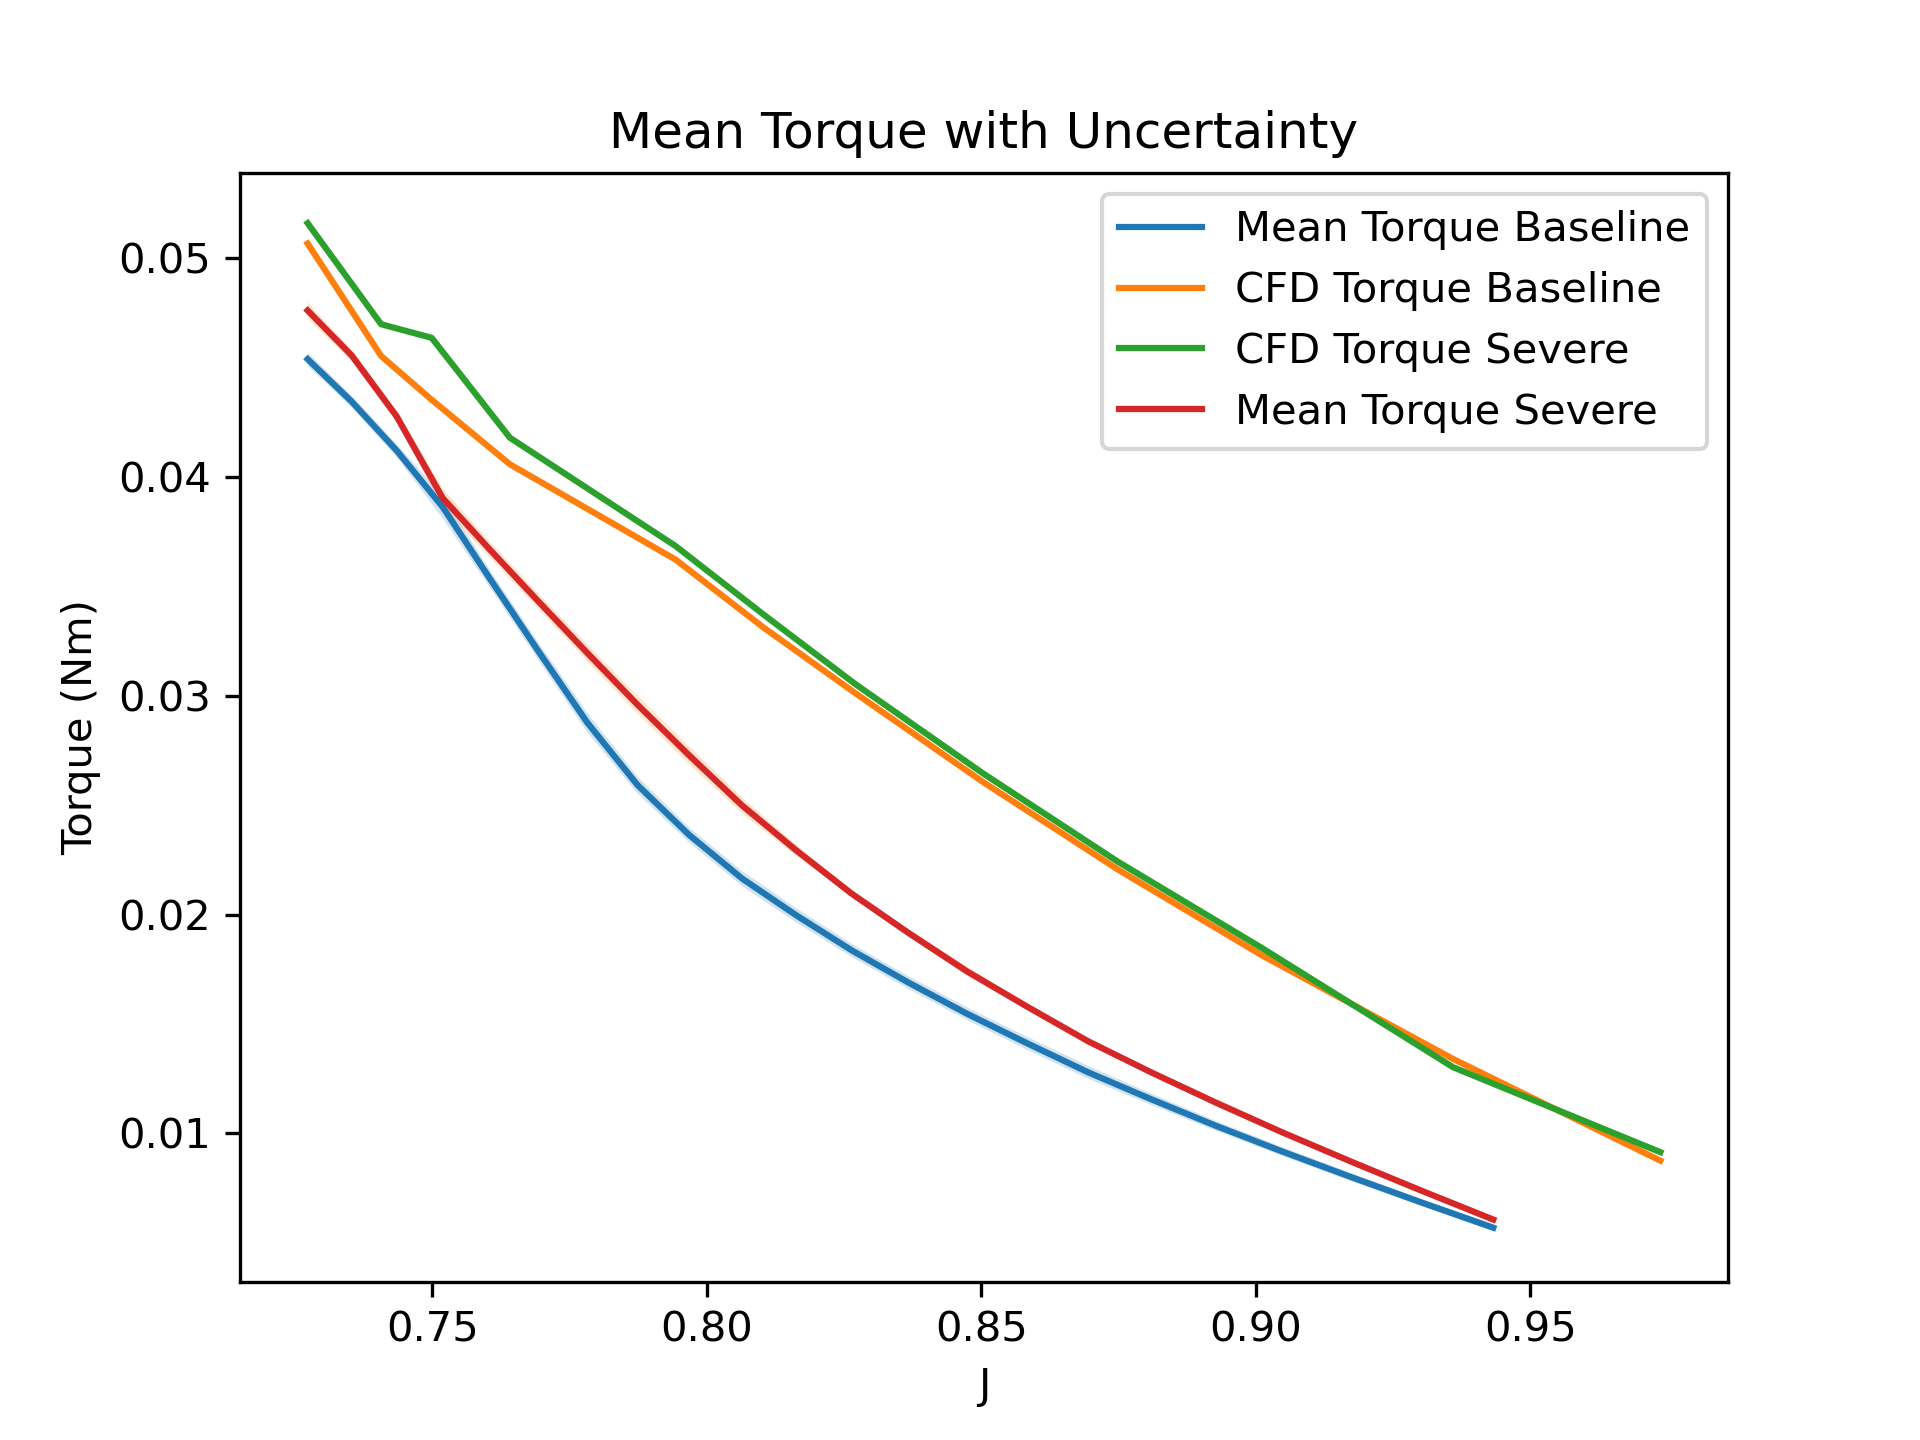
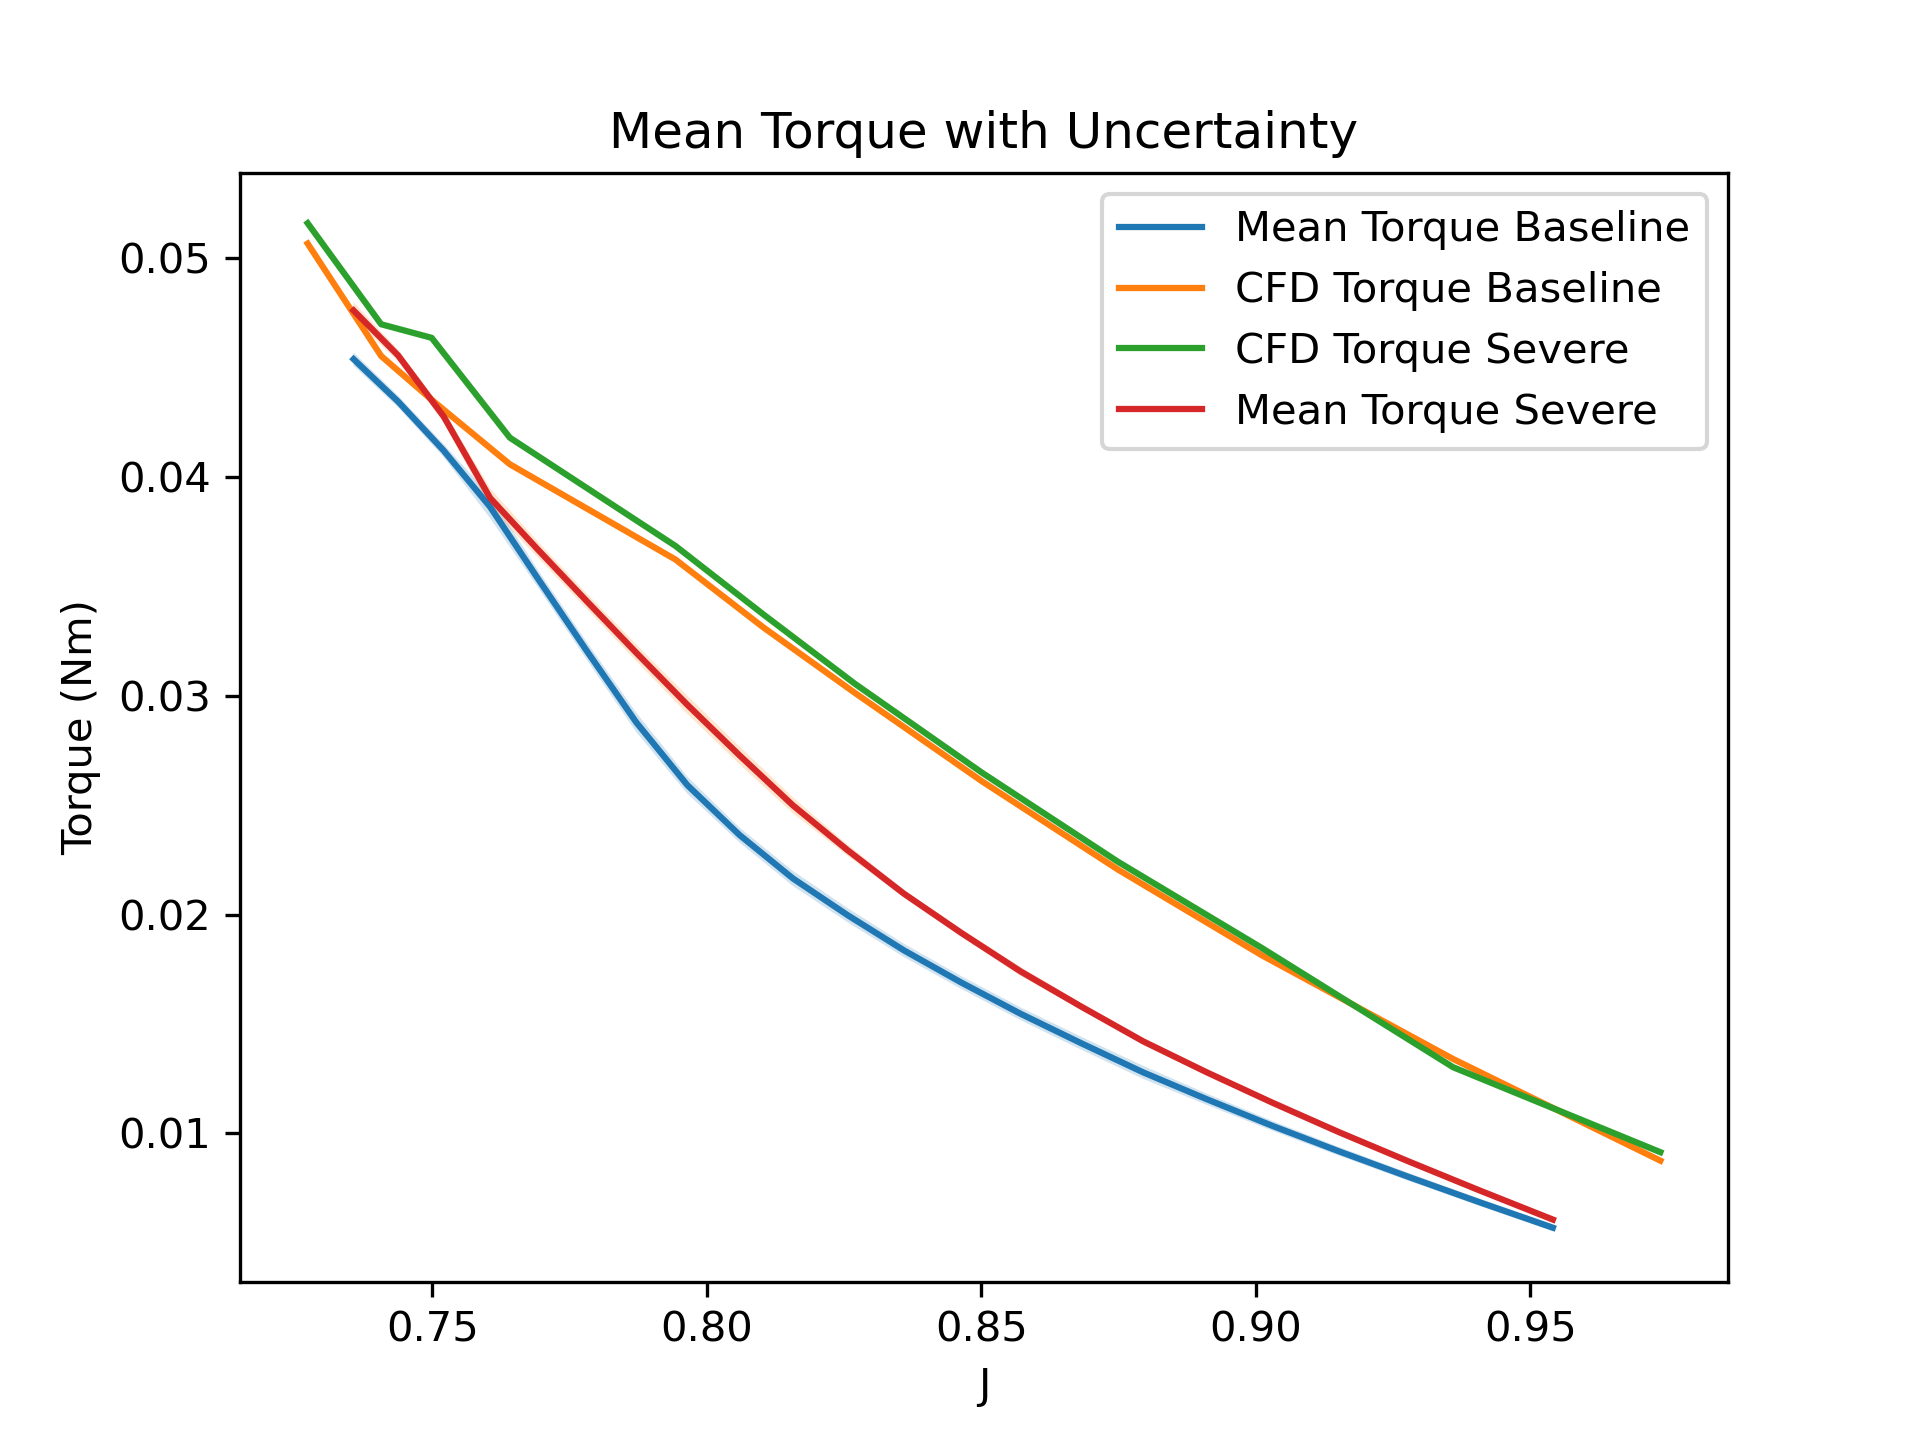
ok

Changed region(s): [[0.1562, 0.2188, 0.8125, 0.875]]

diff --git a/PostProcess/2024_11_27/PP/MainScript.py b/PostProcess/2024_11_27/PP/MainScript.py
@@ -135,20 +135,21 @@ for file_name in test_files:
     # Read the test data
     TestData = pd.read_csv(file_path, delimiter='\t')
 
-    # Calculate torque and other derived metrics
-    TestData['torque'] = abs(0.019 * (TestData['LoadL'] + TestData['LoadR']) * p[0])
-    Dia = 0.2286
-    TestData['n'] = TestData['RPM'] / 60  # Revolutions per second
-    rho = TestData['rho']
-    TestData['J'] = TestData['U'] / (TestData['n'] * Dia)
-    TestData['Thrust'] = TestData['Thrust'] * pT[0]
-    TestData['Ct'] = TestData['Thrust'] / (rho * (TestData['n'] ** 2) * (Dia ** 4))
-    TestData['P'] = 2 * np.pi * TestData['n'] * TestData['torque']
-    TestData['Cp'] = TestData['P'] / (rho * (TestData['n'] ** 3) * (Dia ** 5))
-    TestData['eta'] = TestData['J'] * TestData['Ct'] / TestData['Cp']
 
     # Separate baseline and severe data
     if 'Baseline' in file_name:
+        # Calculate torque and other derived metrics
+        TestData['torque'] = abs(0.019 * (TestData['LoadL'] + TestData['LoadR']) * p[0])
+        Dia = 0.226
+        TestData['n'] = TestData['RPM'] / 60  # Revolutions per second
+        rho = TestData['rho']
+        TestData['J'] = TestData['U'] / (TestData['n'] * Dia)
+        TestData['Thrust'] = TestData['Thrust'] * pT[0]
+        TestData['Ct'] = TestData['Thrust'] / (rho * (TestData['n'] ** 2) * (Dia ** 4))
+        TestData['P'] = 2 * np.pi * TestData['n'] * TestData['torque']
+        TestData['Cp'] = TestData['P'] / (rho * (TestData['n'] ** 3) * (Dia ** 5))
+        TestData['eta'] = TestData['J'] * TestData['Ct'] / TestData['Cp']
+
         all_J_baseline.append(TestData['J'])
         all_Ct_baseline.append(TestData['Ct'])
         all_Cp_baseline.append(TestData['Cp'])
@@ -160,6 +161,18 @@ for file_name in test_files:
         all_pressure_baseline.append(TestData['Pa'])
 
     elif 'Severe' in file_name:
+        # Calculate torque and other derived metrics
+        TestData['torque'] = abs(0.019 * (TestData['LoadL'] + TestData['LoadR']) * p[0])
+        Dia = 0.2288
+        TestData['n'] = TestData['RPM'] / 60  # Revolutions per second
+        rho = TestData['rho']
+        TestData['J'] = TestData['U'] / (TestData['n'] * Dia)
+        TestData['Thrust'] = TestData['Thrust'] * pT[0]
+        TestData['Ct'] = TestData['Thrust'] / (rho * (TestData['n'] ** 2) * (Dia ** 4))
+        TestData['P'] = 2 * np.pi * TestData['n'] * TestData['torque']
+        TestData['Cp'] = TestData['P'] / (rho * (TestData['n'] ** 3) * (Dia ** 5))
+        TestData['eta'] = TestData['J'] * TestData['Ct'] / TestData['Cp']
+
         all_J_severe.append(TestData['J'])
         all_Ct_severe.append(TestData['Ct'])
         all_Cp_severe.append(TestData['Cp'])
@@ -577,6 +590,8 @@ torque_uncertainty = np.sqrt(
     (0.05 / 100 * full_scale_torque)**2   # Non-linearity
 )
 
+Dia = 0.226
+
 for i in range(len(mean_rpm_baseline)):
     # Sensor uncertainties
     uncertainties = {
@@ -673,6 +688,7 @@ torque_uncertainty = np.sqrt(
     (0.05 / 100 * full_scale_torque)**2   # Non-linearity
     )
 
+Dia = 0.2288
 
 for i in range(len(mean_rpm_severe)):
     # Sensor uncertainties
